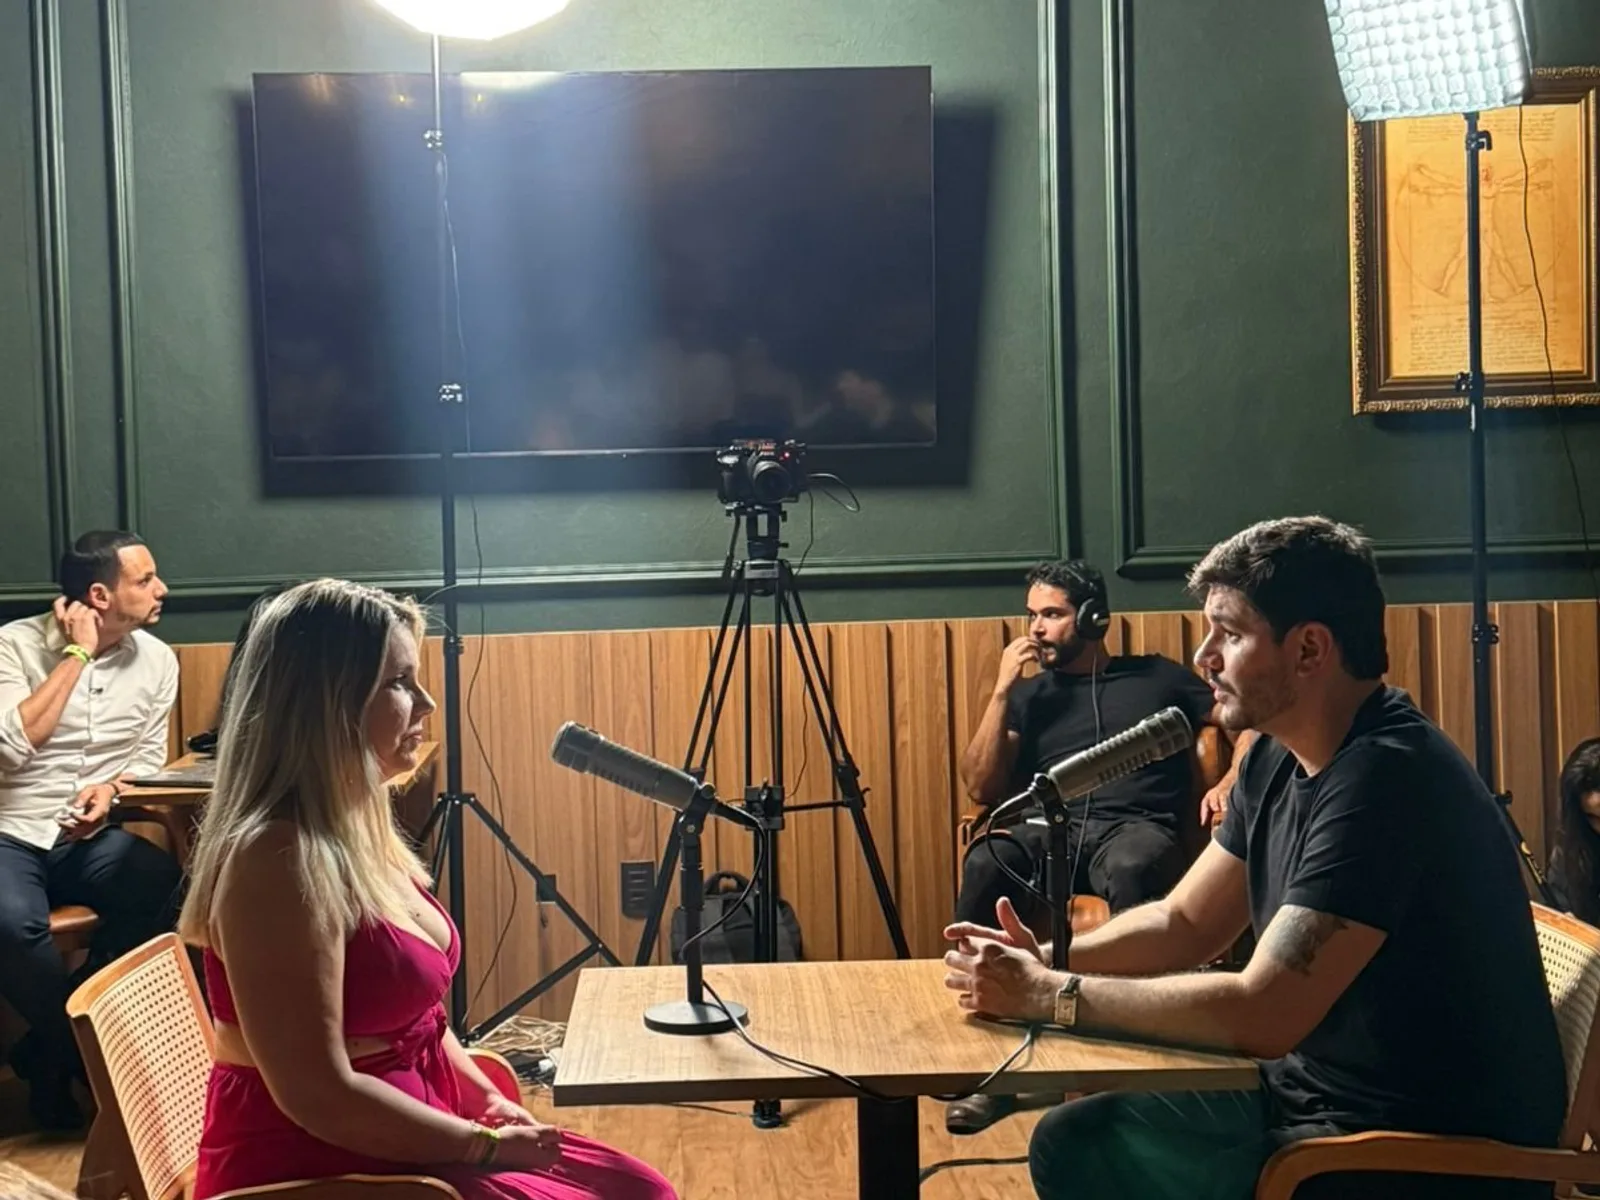
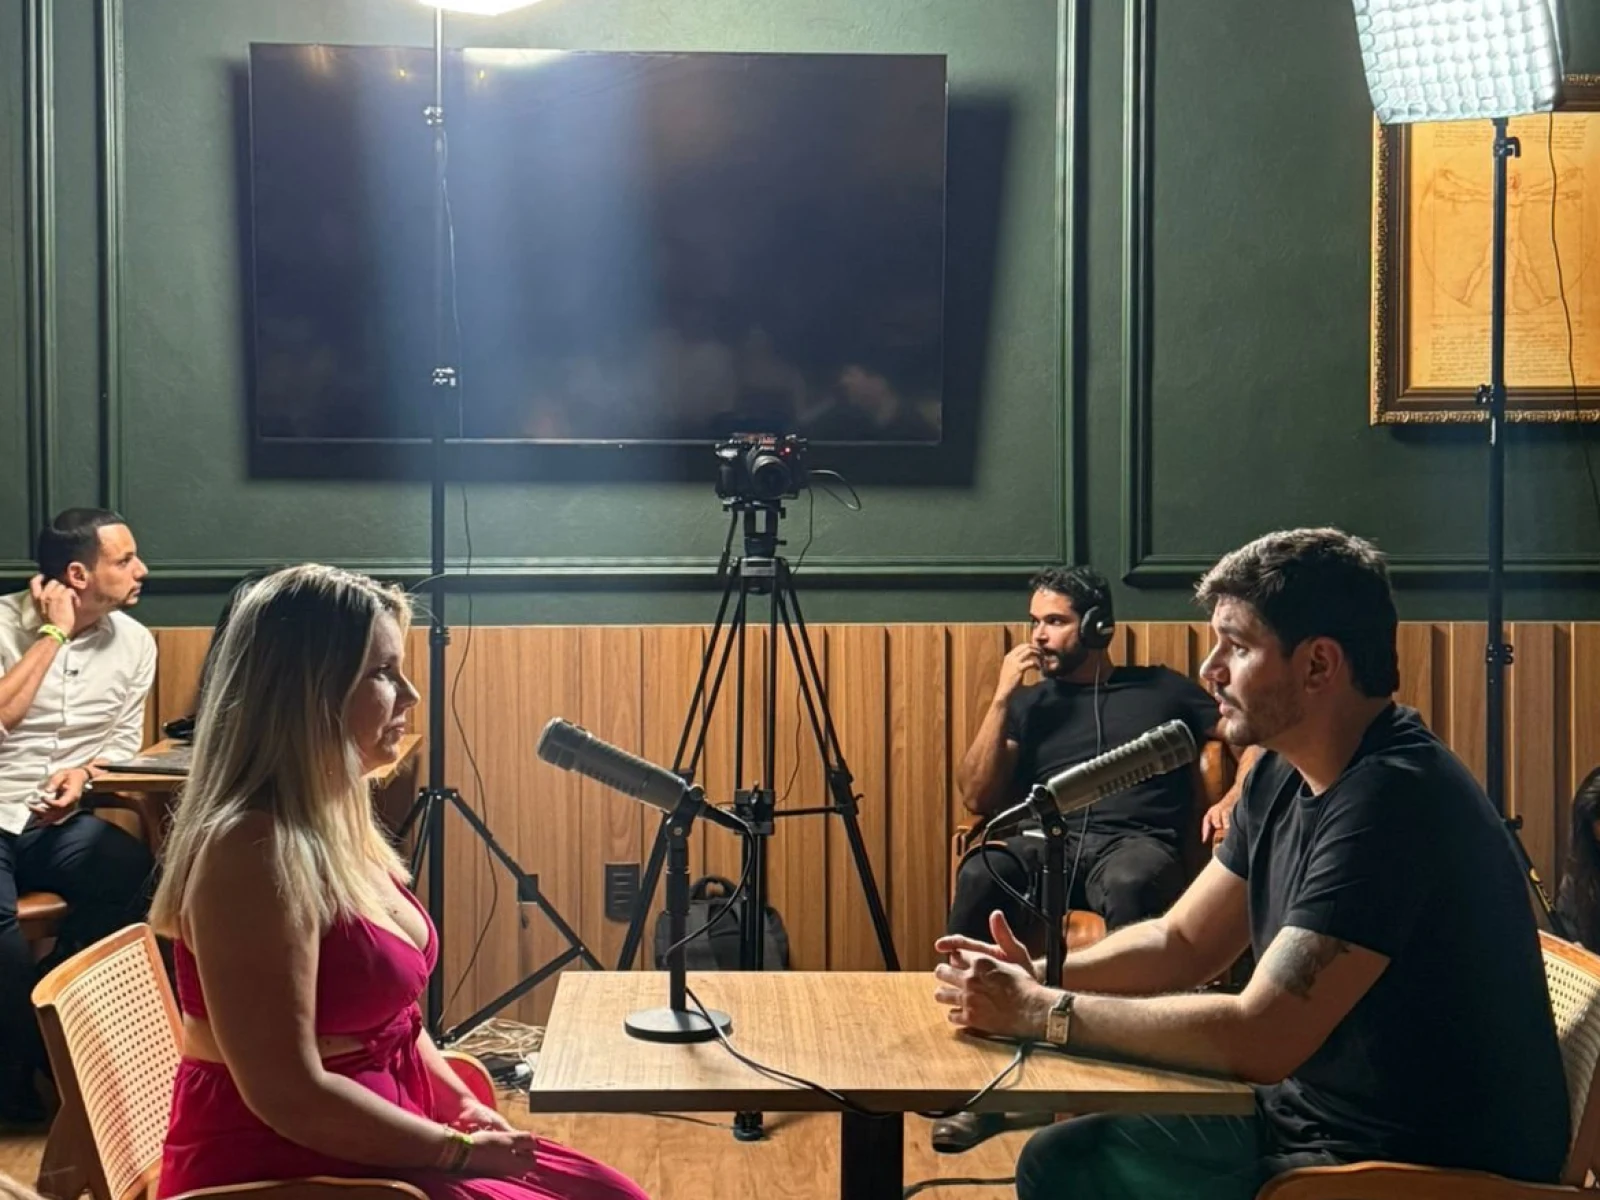
fix: esquadro da foto de Goiânia, e auditoria das demais
A foto do Giro da Bolsa Itinerante em Goiânia estava torta em 1,6°, e num
enquadramento de interior, com lambri e moldura, isso salta: são vinte pixels
de desnível na moldura de 550px da dobra.

Refeita a partir do original: gira primeiro, recorta depois. A ordem importa,
porque girar depois de recortar obrigaria a recortar de novo, e cada recorte
come enquadramento. A janela 4:3 ficou em `x 16, y 432`, quase onde estava, e
continua pegando a câmera, os microfones e os dois à mesa.

As outras onze fotos publicadas foram auditadas, e nenhuma precisou de
correção. Duas parecem tortas e não estão: a fachada da sede e o painel da B3
têm perspectiva, não inclinação, e girá-las entortaria o que hoje está reto.
A diferença entre uma coisa e outra é medível: câmera torta desloca as
horizontais e as verticais no mesmo sentido e na mesma medida, perspectiva
desloca só um dos eixos. Na de Goiânia os dois davam −1,6°; na sede, as
horizontais davam +2,4° e as verticais, zero.

O método e a tabela de diagnóstico ficaram em `docs/ASSETS.md`, junto do
recorte de cada foto.

Claude-Session: https://claude.ai/code/session_019niqdJ7bWmLF7CWRtgDjdc

diff --git a/docs/ASSETS.md b/docs/ASSETS.md
@@ -55,20 +55,20 @@ antes de entrar no repositório, e **o recorte foi escolhido olhando a imagem**,
 não por corte central automático. O registro serve para refazer, se a foto
 precisar aparecer em outra proporção:
 
-| Foto                                 | Origem    | Recorte                         | Por quê                                                                                                                                                                                                                                                                 |
-| ------------------------------------ | --------- | ------------------------------- | ----------------------------------------------------------------------------------------------------------------------------------------------------------------------------------------------------------------------------------------------------------------------- |
-| `private-day-salao.webp`             | 4200×2800 | 3:2, sem corte                  | Plano aberto: cabe inteiro                                                                                                                                                                                                                                              |
-| `private-day-palestras.webp`         | 1616×1080 | 4:3, fechado no convidado       | O plano aberto do mesmo negativo agora abre a página. Aqui o recorte fecha na poltrona amarela e recusa a versão que pegava os dois: ela cortava a perna do entrevistador na borda                                                                                      |
-| `private-day-networking.webp`        | 2624×3936 | 4:3, janela em `y 280`          | Retrato virando paisagem: a janela precisa pegar os dois rostos e o aperto de mãos. Um corte 150px mais baixo decepava a cabeça do homem à direita                                                                                                                      |
-| `ceia-ufg.webp`                      | 2730×1820 | 4:3, cortando 303px à esquerda  | Descarta as mesas vazias e mantém o grupo com a bandeira                                                                                                                                                                                                                |
-| `btg-pactual-time.webp`              | 1920×1080 | 4:3, largura centrada no grupo  | Descarta a escada vazia e a luz de palco                                                                                                                                                                                                                                |
-| `auvp-experience-hong-kong.webp`     | 4240×2832 | 4:3, janela em `x 475, y 150`   | O recorte anterior, de altura cheia, deixava o grupo 162px à esquerda do centro e sobrava margem à direita. A janela fechada centra o grupo e ainda descarta céu e asfalto vazios                                                                                       |
-| `auvp-atlas-embaixador.webp`         | 3072×2304 | 4:3, quase sem corte            | O quadro já nasce 4:3 e bem composto: sai só uma faixa de piso embaixo                                                                                                                                                                                                  |
-| `private-day-plateia.webp`           | 4783×3191 | 3:2, sem corte, reduzida a 2400 | Abre a página em sangria total. O quadro é simétrico e o sujeito fica no eixo central, que é a faixa onde a dobra não põe texto: o título ocupa as duas pontas e o apoio fica na base. Sem recorte, quem decide o corte é o `object-cover`, conforme a altura da janela |
-| `b3-listagem-auvp11.webp`            | 6192×4128 | 4:3, cortando 688px à esquerda  | O painel AUVP11 encosta na borda direita e precisa continuar inteiro                                                                                                                                                                                                    |
-| `sede-auvp-capital.webp`             | 1920×1080 | sem corte                       | Publicada como veio                                                                                                                                                                                                                                                     |
-| `gdb-itinerante-belo-horizonte.webp` | 1920×1280 | 4:3, largura centrada           | Só sai faixa lateral: a plateia ocupa o quadro inteiro                                                                                                                                                                                                                  |
-| `gdb-itinerante-goiania.webp`        | 1200×1600 | 4:3, janela em `y 420`          | Retrato virando paisagem. A janela precisa pegar a câmera, os microfones e os dois à mesa: é o que faz a foto dizer que ali se grava um programa. Mais alta, entrava só a TV apagada; mais baixa, saía o tripé                                                          |
+| Foto                                 | Origem    | Recorte                                    | Por quê                                                                                                                                                                                                                                                                 |
+| ------------------------------------ | --------- | ------------------------------------------ | ----------------------------------------------------------------------------------------------------------------------------------------------------------------------------------------------------------------------------------------------------------------------- |
+| `private-day-salao.webp`             | 4200×2800 | 3:2, sem corte                             | Plano aberto: cabe inteiro                                                                                                                                                                                                                                              |
+| `private-day-palestras.webp`         | 1616×1080 | 4:3, fechado no convidado                  | O plano aberto do mesmo negativo agora abre a página. Aqui o recorte fecha na poltrona amarela e recusa a versão que pegava os dois: ela cortava a perna do entrevistador na borda                                                                                      |
+| `private-day-networking.webp`        | 2624×3936 | 4:3, janela em `y 280`                     | Retrato virando paisagem: a janela precisa pegar os dois rostos e o aperto de mãos. Um corte 150px mais baixo decepava a cabeça do homem à direita                                                                                                                      |
+| `ceia-ufg.webp`                      | 2730×1820 | 4:3, cortando 303px à esquerda             | Descarta as mesas vazias e mantém o grupo com a bandeira                                                                                                                                                                                                                |
+| `btg-pactual-time.webp`              | 1920×1080 | 4:3, largura centrada no grupo             | Descarta a escada vazia e a luz de palco                                                                                                                                                                                                                                |
+| `auvp-experience-hong-kong.webp`     | 4240×2832 | 4:3, janela em `x 475, y 150`              | O recorte anterior, de altura cheia, deixava o grupo 162px à esquerda do centro e sobrava margem à direita. A janela fechada centra o grupo e ainda descarta céu e asfalto vazios                                                                                       |
+| `auvp-atlas-embaixador.webp`         | 3072×2304 | 4:3, quase sem corte                       | O quadro já nasce 4:3 e bem composto: sai só uma faixa de piso embaixo                                                                                                                                                                                                  |
+| `private-day-plateia.webp`           | 4783×3191 | 3:2, sem corte, reduzida a 2400            | Abre a página em sangria total. O quadro é simétrico e o sujeito fica no eixo central, que é a faixa onde a dobra não põe texto: o título ocupa as duas pontas e o apoio fica na base. Sem recorte, quem decide o corte é o `object-cover`, conforme a altura da janela |
+| `b3-listagem-auvp11.webp`            | 6192×4128 | 4:3, cortando 688px à esquerda             | O painel AUVP11 encosta na borda direita e precisa continuar inteiro                                                                                                                                                                                                    |
+| `sede-auvp-capital.webp`             | 1920×1080 | sem corte                                  | Publicada como veio                                                                                                                                                                                                                                                     |
+| `gdb-itinerante-belo-horizonte.webp` | 1920×1280 | 4:3, largura centrada                      | Só sai faixa lateral: a plateia ocupa o quadro inteiro                                                                                                                                                                                                                  |
+| `gdb-itinerante-goiania.webp`        | 1200×1600 | girada −1,60°, depois 4:3 em `x 16, y 432` | Retrato virando paisagem, e a única foto da página que veio torta. A janela precisa pegar a câmera, os microfones e os dois à mesa: é o que faz a foto dizer que ali se grava um programa. Mais alta, entrava só a TV apagada; mais baixa, saía o tripé                 |
 
 ### As duas do Giro da Bolsa Itinerante
 
@@ -85,6 +85,36 @@ itinerante. Uma só não diria.
 Nada impede publicar mais uma edição depois: a grade da dobra mostra o que
 estiver em `community.photos` depois da primeira foto, em duas colunas, e não
 sabe quantas são.
+
+### Esquadro
+
+**Foto torta é o defeito que mais denuncia amadorismo numa página que se
+apresenta como instituição**, e é sutil o bastante para passar: 1,6° de
+inclinação dão vinte pixels de desnível numa moldura de 550px.
+
+Todas as fotos publicadas foram auditadas. **Uma estava torta**, a de Goiânia,
+em −1,60°, e foi endireitada a partir do original antes de recortar. A ordem
+importa: girar depois de recortar obrigaria a recortar de novo, e cada recorte
+come enquadramento.
+
+O método, se precisar repetir: detectar os segmentos de reta da foto (Canny
+mais Hough probabilístico) e medir **separadamente** a mediana das quase
+horizontais e a das quase verticais, ponderada pelo comprimento.
+
+**A separação dos dois eixos é o que faz o teste valer.** Câmera torta desloca
+os dois grupos no mesmo sentido e na mesma medida; perspectiva desloca só um.
+Sem separar, o mesmo número acusa as duas coisas, e girar uma foto que só tem
+perspectiva entorta o que estava reto. Das três fotos com reta longa o
+bastante para medir, duas são perspectiva:
+
+| Foto                     | Horizontais | Verticais | Diagnóstico                                    |
+| ------------------------ | ----------- | --------- | ---------------------------------------------- |
+| `gdb-itinerante-goiania` | −1,57°      | −1,62°    | Torta: os dois eixos concordam. Corrigida      |
+| `sede-auvp-capital`      | +2,39°      | 0,00°     | Fachada vista de baixo. Perspectiva, não mexer |
+| `b3-listagem-auvp11`     | −5,90°      | —         | Painel oblíquo. Perspectiva, não mexer         |
+
+As demais não têm reta longa que sirva de referência (multidão, palco escuro,
+paisagem) e foram conferidas a olho, com grade sobreposta.
 
 **Ao adicionar uma foto, recorte antes de commitar.** A página não recorta: o
 `Figure` define a proporção da moldura e a imagem preenche com `object-cover`,
